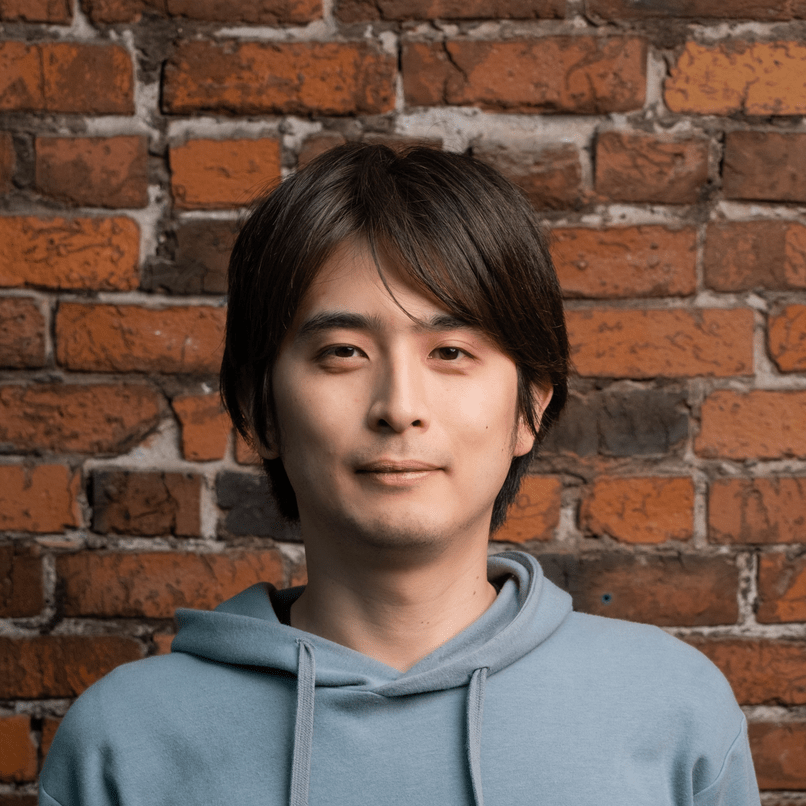
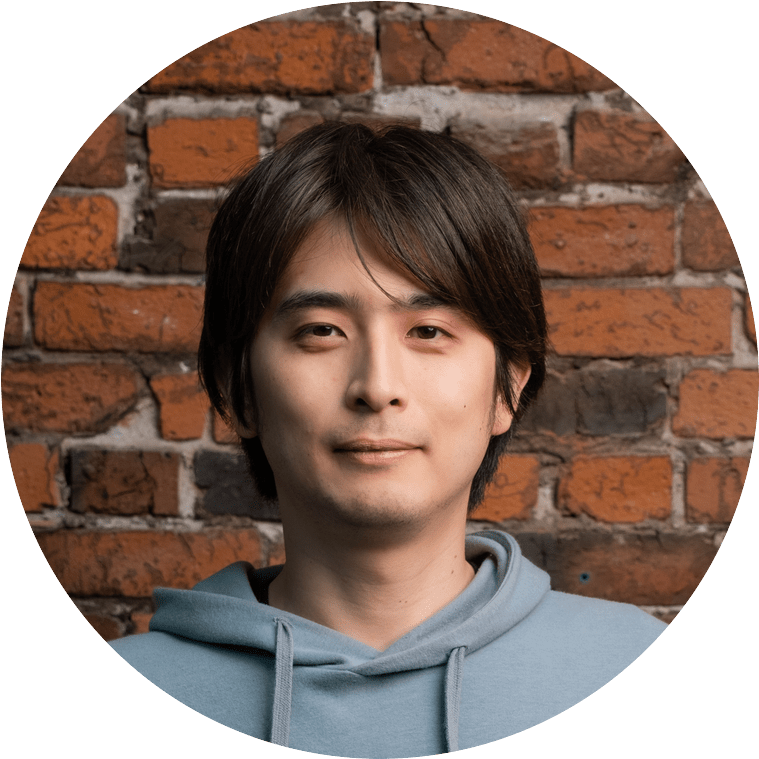
Update Image and Set Key to Map

diff --git a/src/pages/Work.js b/src/pages/Work.js
@@ -21,7 +21,7 @@ const Work = () => {
         <div className="project-detail-wrapper">
           {projects.map(project => {
           return (
-            <ProjectDetail id={project.id} name={project.name} img={project.img} url={project.url} skills={project.skills} text={project.text} />
+            <ProjectDetail key={project.id} id={project.id} name={project.name} img={project.img} url={project.url} skills={project.skills} text={project.text} />
           )
           })}
         </div>

diff --git a/src/pages/Home.js b/src/pages/Home.js
@@ -46,7 +46,7 @@ const Home = () => {
       <div className="project-thumbnail-wrapper">
         {projects.map(project => {
           return (
-            <ProjectThumbnail name={project.name} img={project.img} url={project.url} text={project.text} />
+            <ProjectThumbnail key={project.name} name={project.name} img={project.img} url={project.url} text={project.text} />
           )
         })}
       </div>

diff --git a/src/style/style.scss b/src/style/style.scss
@@ -291,7 +291,7 @@ footer{
   padding: 18px;
 
   img{
-    max-width: 100%;
+    width: 100%;
     border-radius: 50%;
   }
 }
